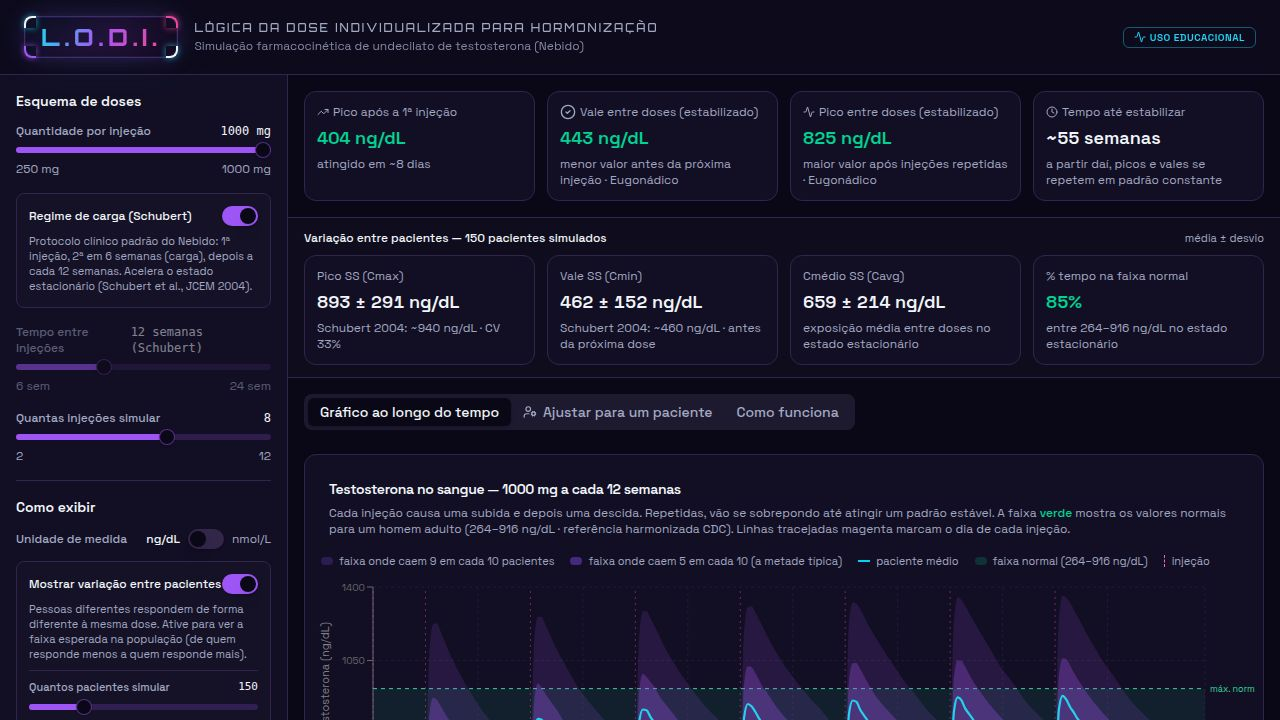
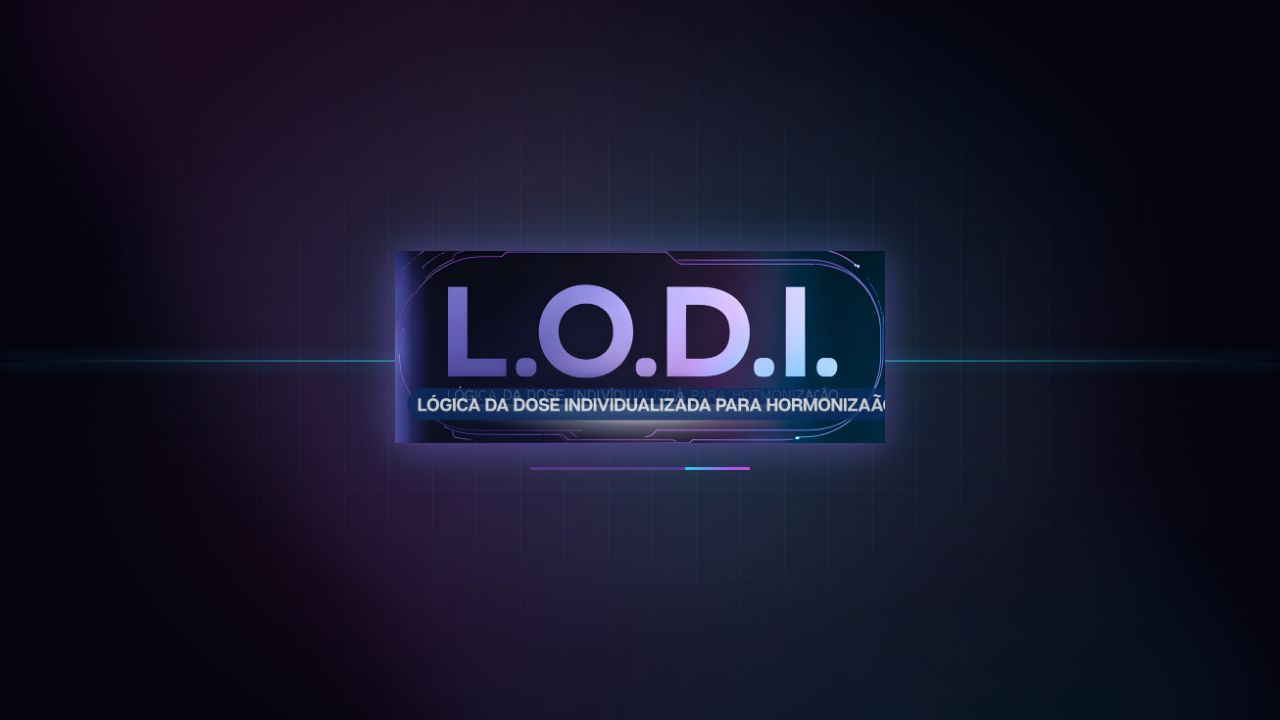
feat(pk-simulator): adicionar tema claro com identidade L.O.D.I. e alternância persistida
Tarefa #2: oferecer um modo claro alternativo mantendo a paleta de marca
(ciano → violeta → magenta), com botão de alternância no cabeçalho e
preferência persistida.

Mudanças principais:
- index.html: removido `class="dark"` fixo no <html>; adicionado script
  inline de boot que lê `localStorage["lodi-theme"]` (default: "dark") e
  aplica a classe antes da hidratação do React, evitando flash de tema.
- src/index.css:
  - Reescrito o bloco `:root` (light) substituindo a antiga paleta clínica
    azul-slate por uma paleta pérola/lavanda coerente com o logo:
    primary violeta 267°, accent ciano 190°, destructive magenta 340°,
    chart palette ajustada para boa legibilidade em fundo claro.
  - Background do <body> ganhou gradientes radiais sutis ciano/violeta/magenta
    no modo claro (variante mais intensa preservada para `.dark body`).
  - `.lodi-logo-img` ganhou variante de drop-shadow mais leve para tema
    claro, com a versão neon original mantida sob `.dark`.
  - `.lodi-card` ganhou variante de borda/sombra para tema claro.
- src/pages/simulator.tsx:
  - Novo estado `tema: "light" | "dark"` inicializado a partir da classe já
    aplicada pelo script de boot, sincronizado com `<html>.classList` e
    persistido em `localStorage["lodi-theme"]`.
  - Botão `Sun`/`Moon` (lucide) adicionado no canto direito do cabeçalho,
    ao lado do badge "Uso educacional" (data-testid="button-tema").
- replit.md: documentado o esquema de temas e a chave de persistência.
[…]

diff --git a/artifacts/pk-simulator/src/index.css b/artifacts/pk-simulator/src/index.css
@@ -67,59 +67,59 @@
   --radius-xl: calc(var(--radius) + 4px);
 }
 
-/* LIGHT MODE — paleta clínica azul-slate */
+/* LIGHT MODE — identidade L.O.D.I. (pérola/lavanda com acentos ciano→violeta→magenta) */
 :root {
-  --button-outline: rgba(0,0,0, .10);
-  --badge-outline: rgba(0,0,0, .05);
+  --button-outline: rgba(124, 58, 237, .14);
+  --badge-outline: rgba(124, 58, 237, .08);
   --opaque-button-border-intensity: -8;
-  --elevate-1: rgba(0,0,0, .03);
-  --elevate-2: rgba(0,0,0, .08);
+  --elevate-1: rgba(124, 58, 237, .04);
+  --elevate-2: rgba(124, 58, 237, .09);
 
-  --background: 210 20% 98%;
-  --foreground: 215 28% 17%;
+  --background: 260 40% 98%;
+  --foreground: 258 35% 14%;
 
-  --border: 214 20% 88%;
+  --border: 265 30% 88%;
 
   --card: 0 0% 100%;
-  --card-foreground: 215 28% 17%;
-  --card-border: 214 20% 90%;
+  --card-foreground: 258 35% 14%;
+  --card-border: 265 30% 90%;
 
-  --sidebar: 210 24% 96%;
-  --sidebar-foreground: 215 28% 17%;
-  --sidebar-border: 214 20% 88%;
-  --sidebar-primary: 217 91% 60%;
+  --sidebar: 262 45% 97%;
+  --sidebar-foreground: 258 35% 14%;
+  --sidebar-border: 265 30% 88%;
+  --sidebar-primary: 267 80% 56%;
   --sidebar-primary-foreground: 0 0% 100%;
-  --sidebar-accent: 210 20% 94%;
-  --sidebar-accent-foreground: 215 28% 17%;
-  --sidebar-ring: 217 91% 60%;
+  --sidebar-accent: 262 45% 94%;
+  --sidebar-accent-foreground: 258 35% 14%;
+  --sidebar-ring: 190 85% 42%;
 
   --popover: 0 0% 100%;
-  --popover-foreground: 215 28% 17%;
-  --popover-border: 214 20% 88%;
+  --popover-foreground: 258 35% 14%;
+  --popover-border: 265 30% 88%;
 
-  --primary: 217 91% 60%;
+  --primary: 267 80% 56%;
   --primary-foreground: 0 0% 100%;
 
-  --secondary: 210 20% 94%;
-  --secondary-foreground: 215 28% 17%;
+  --secondary: 262 45% 94%;
+  --secondary-foreground: 258 35% 14%;
 
-  --muted: 210 20% 95%;
-  --muted-foreground: 215 16% 47%;
+  --muted: 262 40% 95%;
+  --muted-foreground: 258 18% 42%;
 
-  --accent: 210 20% 94%;
-  --accent-foreground: 215 28% 17%;
+  --accent: 190 85% 42%;
+  --accent-foreground: 0 0% 100%;
 
-  --destructive: 0 84% 60%;
+  --destructive: 340 80% 52%;
   --destructive-foreground: 0 0% 100%;
 
-  --input: 214 20% 88%;
-  --ring: 217 91% 60%;
+  --input: 265 30% 88%;
+  --ring: 267 80% 56%;
 
-  --chart-1: 217 91% 60%;
-  --chart-2: 160 60% 45%;
-  --chart-3: 30 80% 55%;
-  --chart-4: 280 65% 60%;
-  --chart-5: 340 75% 55%;
+  --chart-1: 190 85% 42%;
+  --chart-2: 160 65% 38%;
+  --chart-3: 30 90% 50%;
+  --chart-4: 267 80% 56%;
+  --chart-5: 327 80% 52%;
 
   --app-font-sans: 'Space Grotesk', 'Inter', system-ui, sans-serif;
   --app-font-display: 'Orbitron', 'Space Grotesk', system-ui, sans-serif;
@@ -224,15 +224,19 @@
 
   body {
     @apply font-sans antialiased bg-background text-foreground;
+    background-color: hsl(var(--background));
+    background-image:
+      radial-gradient(ellipse 80% 60% at 15% 0%, rgba(168, 85, 247, 0.10), transparent 60%),
+      radial-gradient(ellipse 70% 50% at 100% 20%, rgba(34, 211, 238, 0.09), transparent 60%),
+      radial-gradient(ellipse 60% 50% at 50% 100%, rgba(236, 72, 153, 0.06), transparent 60%);
+    background-attachment: fixed;
   }
 
   .dark body {
-    background-color: hsl(var(--background));
     background-image:
       radial-gradient(ellipse 80% 60% at 20% 0%, rgba(168, 85, 247, 0.18), transparent 60%),
       radial-gradient(ellipse 70% 50% at 100% 30%, rgba(34, 211, 238, 0.12), transparent 60%),
       radial-gradient(ellipse 60% 50% at 50% 100%, rgba(236, 72, 153, 0.10), transparent 60%);
-    background-attachment: fixed;
   }
 
   .font-display {
@@ -243,6 +247,10 @@
 @layer utilities {
   /* L.O.D.I. logo image — subtle drop shadow to lift it on dark background */
   .lodi-logo-img {
+    filter: drop-shadow(0 2px 8px rgba(124, 58, 237, 0.18))
+            drop-shadow(0 0 14px rgba(34, 211, 238, 0.10));
+  }
+  .dark .lodi-logo-img {
     filter: drop-shadow(0 4px 18px rgba(168, 85, 247, 0.35))
             drop-shadow(0 0 28px rgba(34, 211, 238, 0.18));
   }
@@ -295,6 +303,12 @@
   .neon-glow-cyan { box-shadow: 0 0 0 1px rgba(34, 211, 238, 0.35), 0 0 18px rgba(34, 211, 238, 0.25); }
   .neon-glow-violet { box-shadow: 0 0 0 1px rgba(168, 85, 247, 0.35), 0 0 18px rgba(168, 85, 247, 0.25); }
 
+  .lodi-card {
+    box-shadow:
+      0 0 0 1px rgba(124, 58, 237, 0.06),
+      0 6px 22px -10px rgba(34, 211, 238, 0.18);
+    border-color: rgba(124, 58, 237, 0.14) !important;
+  }
   .dark .lodi-card {
     box-shadow:
       0 0 0 1px rgba(168, 85, 247, 0.10),

diff --git a/artifacts/pk-simulator/src/pages/simulator.tsx b/artifacts/pk-simulator/src/pages/simulator.tsx
@@ -27,6 +27,8 @@ import {
   CheckCircle2,
   TrendingUp,
   Clock,
+  Sun,
+  Moon,
 } from "lucide-react";
 import {
   simularPerfil,
@@ -152,10 +154,29 @@ function CustomTooltipMC({ active, payload, label, unidade }: {
   );
 }
 
+type Tema = "light" | "dark";
+
+function getTemaInicial(): Tema {
+  if (typeof document === "undefined") return "dark";
+  return document.documentElement.classList.contains("dark") ? "dark" : "light";
+}
+
 export default function Simulator() {
   const [config, setConfig] = useState<ConfigSimulador>(CONFIG_INICIAL);
   const [isCalculating, setIsCalculating] = useState(false);
   const [aba, setAba] = useState("grafico");
+  const [tema, setTema] = useState<Tema>(getTemaInicial);
+
+  useEffect(() => {
+    const root = document.documentElement;
+    if (tema === "dark") root.classList.add("dark");
+    else root.classList.remove("dark");
+    try { localStorage.setItem("lodi-theme", tema); } catch { /* ignore */ }
+  }, [tema]);
+
+  const alternarTema = useCallback(() => {
+    setTema(t => (t === "dark" ? "light" : "dark"));
+  }, []);
 
   const doses = useMemo(
     () => config.cargaSchubert
@@ -341,10 +362,24 @@ export default function Simulator() {
             Simulação farmacocinética de undecilato de testosterona (Nebido)
           </p>
         </div>
-        <Badge variant="outline" className="text-[10px] gap-1 border-accent/40 text-accent uppercase tracking-wider shrink-0">
-          <Activity className="w-3 h-3" />
-          Uso educacional
-        </Badge>
+        <div className="flex items-center gap-2 shrink-0">
+          <Button
+            type="button"
+            variant="outline"
+            size="icon"
+            onClick={alternarTema}
+            data-testid="button-tema"
+            aria-label={tema === "dark" ? "Mudar para tema claro" : "Mudar para tema escuro"}
+            title={tema === "dark" ? "Mudar para tema claro" : "Mudar para tema escuro"}
+            className="h-8 w-8"
+          >
+            {tema === "dark" ? <Sun className="w-4 h-4" /> : <Moon className="w-4 h-4" />}
+          </Button>
+          <Badge variant="outline" className="text-[10px] gap-1 border-accent/40 text-accent uppercase tracking-wider">
+            <Activity className="w-3 h-3" />
+            Uso educacional
+          </Badge>
+        </div>
       </header>
 
       <div className="flex flex-1 overflow-hidden flex-col lg:flex-row">

diff --git a/artifacts/pk-simulator/index.html b/artifacts/pk-simulator/index.html
@@ -1,5 +1,5 @@
 <!DOCTYPE html>
-<html lang="pt-BR" class="dark">
+<html lang="pt-BR">
   <head>
     <meta charset="UTF-8" />
     <meta name="viewport" content="width=device-width, initial-scale=1.0, maximum-scale=1" />
@@ -11,6 +11,17 @@
     <link href="https://fonts.googleapis.com/css2?family=Inter:wght@400;500;600;700&family=Orbitron:wght@500;600;700;800&family=Space+Grotesk:wght@400;500;600;700&display=swap" rel="stylesheet">
   </head>
   <body>
+    <script>
+      (function () {
+        try {
+          var t = localStorage.getItem('lodi-theme');
+          if (t !== 'light' && t !== 'dark') t = 'dark';
+          if (t === 'dark') document.documentElement.classList.add('dark');
+        } catch (e) {
+          document.documentElement.classList.add('dark');
+        }
+      })();
+    </script>
     <div id="root"></div>
     <script type="module" src="/src/main.tsx"></script>
   </body>

diff --git a/replit.md b/replit.md
@@ -26,6 +26,6 @@ pnpm workspace monorepo using TypeScript. Each package manages its own dependenc
 
 ## Artifacts
 
-- `artifacts/pk-simulator` — **L.O.D.I.** (Lógica da Dose Individualizada para Hormonização). Educational PK simulator for testosterone undecanoate (Nebido). Dark-first futuristic neon theme (cyan/violet/magenta), Orbitron display font, HUD-styled `LodiLogo` component. Scientific engine in `src/lib/pk-engine.ts` is the source of truth and must not be modified for visual changes.
+- `artifacts/pk-simulator` — **L.O.D.I.** (Lógica da Dose Individualizada para Hormonização). Educational PK simulator for testosterone undecanoate (Nebido). Dark-first futuristic neon theme (cyan/violet/magenta), Orbitron display font, HUD-styled `LodiLogo` component. Optional light theme keeps the same brand palette (lavender/pearl background, same cyan/violet/magenta accents); user choice is persisted in `localStorage` under key `lodi-theme` and applied pre-hydration by an inline script in `index.html` to avoid FOUC. Scientific engine in `src/lib/pk-engine.ts` is the source of truth and must not be modified for visual changes.
 
 See the `pnpm-workspace` skill for workspace structure, TypeScript setup, and package details.